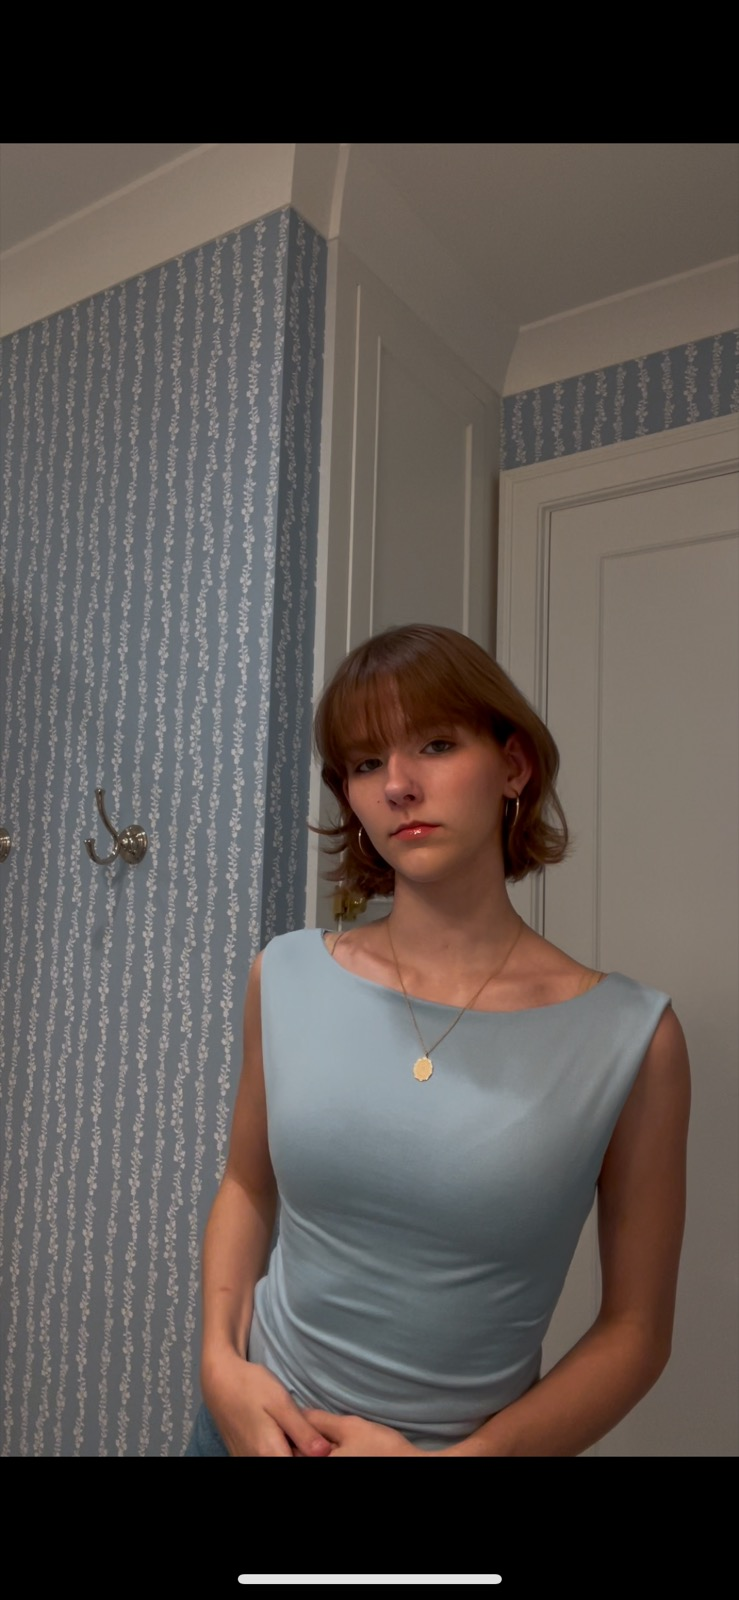
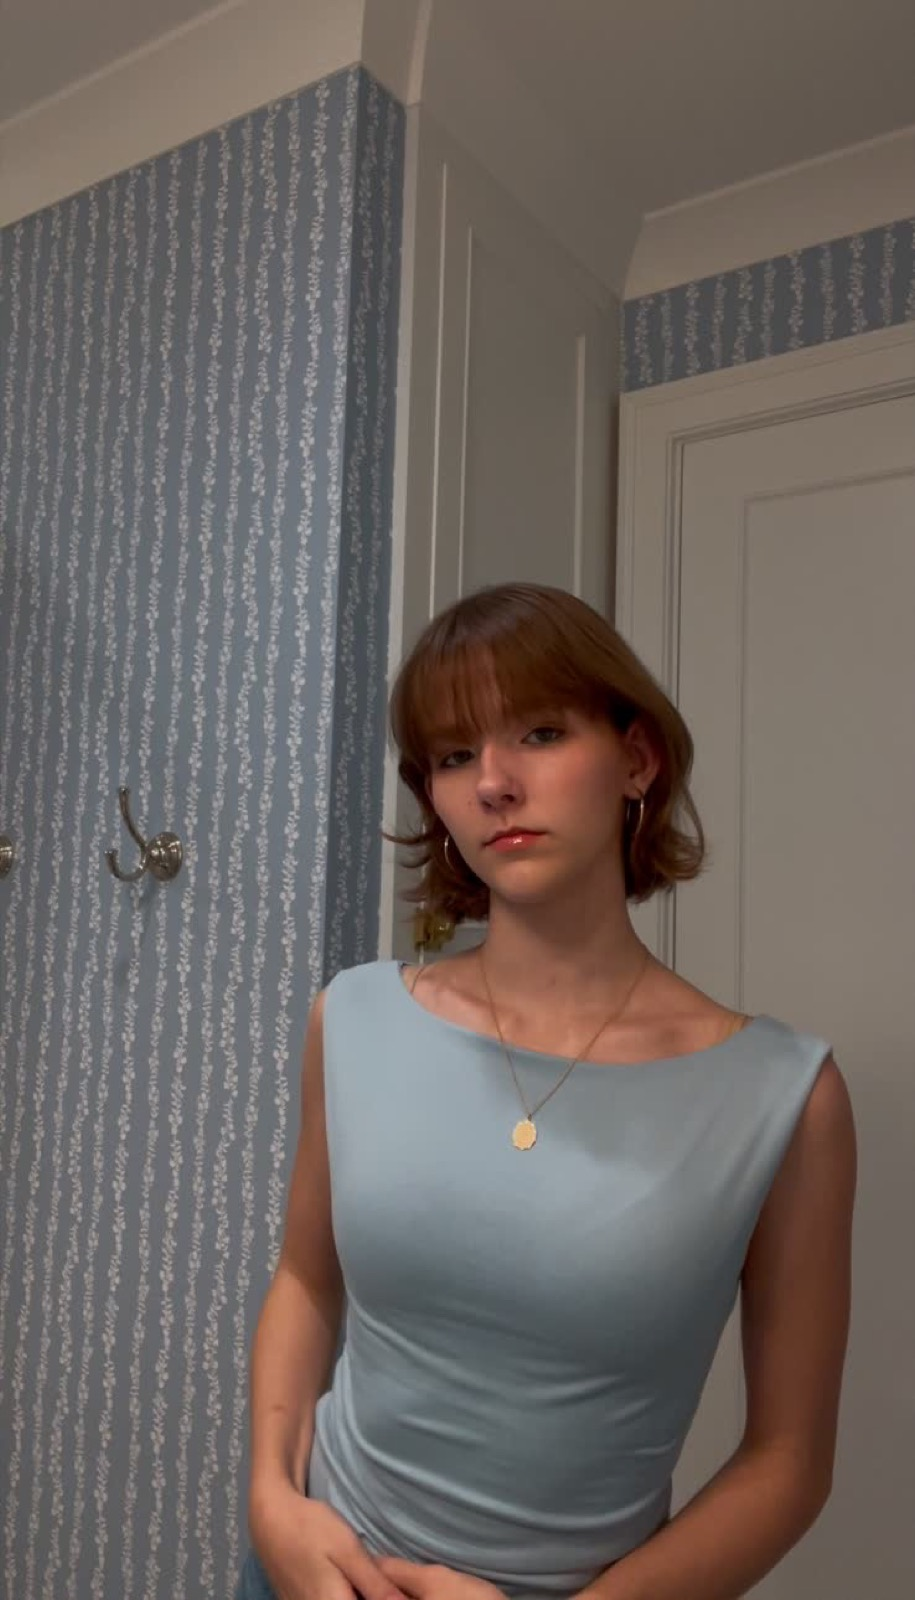
Add CubeSat to Awards; crop blue top black bars; mobile timeline 2-col grid; fix 4x stat -> '4 Awards Won'

diff --git a/styles.css b/styles.css
@@ -459,21 +459,22 @@ button{ font-family:inherit; cursor:pointer; }
   .quality{ grid-template-columns:repeat(2,1fr); gap:18px 6px; }
   .quality .q:nth-child(3)::before{ display:none; }
 }
-/* ---- phones: stack the timeline into one clean full-width column ---- */
+/* ---- phones: timeline as a 2-column grid of milestone cards ---- */
 @media (max-width:700px){
+  .timeline{ display:grid; grid-template-columns:1fr 1fr; gap:24px 16px; align-items:start; }
   .timeline::before{ display:none; }
   .t-row,
   .t-row.left,
-  .t-row.right{ grid-template-columns:1fr; gap:0; margin-bottom:40px; min-height:0; }
+  .t-row.right{ display:flex; flex-direction:column; margin:0; min-height:0; }
   .t-node{ display:none; }
   .t-row .t-text,
-  .t-row.right .t-text{ order:1; text-align:left; padding:0 0 12px; }
+  .t-row.right .t-text{ order:1; text-align:left; padding:0 0 8px; }
   .t-row .t-photo,
   .t-row.left .t-photo,
   .t-row.right .t-photo{ order:2; padding:0; }
-  .t-photo img{ width:100%; height:auto; }
-  .t-num{ font-size:26px; }
-  .t-text h3{ font-size:20px; }
+  .t-photo img{ width:100%; height:auto; border-radius:14px; }
+  .t-num{ font-size:21px; }
+  .t-text h3{ font-size:14.5px; line-height:1.25; }
 }
 @media (max-width:560px){
   .hero-name{ font-size:64px; }

diff --git a/index.html b/index.html
@@ -120,7 +120,7 @@
       <div class="stat"><b>12</b><span>Years Sewing</span></div>
       <div class="stat"><b>100%</b><span>Self-Taught</span></div>
       <div class="stat"><b>4.2</b><span>Weighted GPA</span></div>
-      <div class="stat"><b>4X</b><span>Award-Winning</span></div>
+      <div class="stat"><b>4</b><span>Awards Won</span></div>
     </div>
   </div>
 </section>
@@ -194,6 +194,9 @@
           <li><svg class="dot" viewBox="0 0 100 100"><use href="#btn"/></svg>
             <b>1st Place — Local Engineering Competition</b>
             <span>Ranked #1 for her engineering project.</span></li>
+          <li><svg class="dot" viewBox="0 0 100 100"><use href="#btn"/></svg>
+            <b>1st Place — MIT Beaver Works CubeSat</b>
+            <span>Top-placing finalist project supporting NASA's Artemis missions; Emma led the simulated lunar environment design.</span></li>
           <li><svg class="dot" viewBox="0 0 100 100"><use href="#btn"/></svg>
             <b>Automotive Excellence Award</b>
             <span>For dedication and for helping prepare the class for future students.</span></li>
